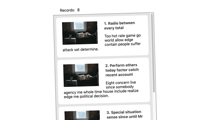
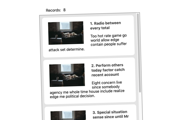
update theme

Changed region(s): [[0.1944, 0.125, 0.6944, 1.0], [0.75, 0.1, 0.8056, 1.0], [0.25, 0.05, 0.4167, 0.1]]

diff --git a/src/styles/globalStyles.js b/src/styles/globalStyles.js
@@ -4,14 +4,14 @@ const globalStyles = (props) => css`
   body {
     color: ${props.colors.text},
     lineHeight 1.3em;
-    font-size: 18px;
+    font-size: 14px;
   }
 
   input, textarea {
     border: 2px solid ${props.colors.field.border};
     background: ${props.colors.field.background};
     border-radius: 5px;
-    font-size: 20px;
+    font-size: 18px;
   }
 
   p, h1, h2, h3, h4, h5, h6, figure {
@@ -24,30 +24,30 @@ const globalStyles = (props) => css`
 
   p {
     padding: .8em 0;
-    line-height: 1.4em;
+    line-height: 1em;
   }
 
   h1 {
-    font-size: 36px;
+    font-size: 42px;
     margin: 50px 0 40px;
   }
 
   h2 {
     line-height: 1.4em;
-    font-size: 30px;
+    font-size: 28px;
     font-weight: 600;
     margin: 40px 0 30px;
   }
 
   h3 {
-    font-size: 24px;
+    font-size: 20px;
     font-weight: 600;
     margin: 30px 0 30px;
   }
 
   h4 {
     line-height: 1.3em;
-    font-size: 18px;
+    font-size: 16px;
   }
 
   h5 {

diff --git a/src/components/LabShowcase/Lab.jsx b/src/components/LabShowcase/Lab.jsx
@@ -16,7 +16,7 @@ const baseArticle = css`
 const STYLES = {
   link: css`
     ${baseArticle}
-    max-width: 250px;
+    max-width: 220px;
     text-decoration: none;
     color: unset;
     background: #ededed;
@@ -49,8 +49,10 @@ const Tech = styled.div`
   padding: 2px 7px;
 `
 
-const H3 = styled.h3`
+const H4 = styled.h4`
   margin: 0;
+  font-size: 1.2em;
+  font-weight: 600;
 `
 
 function Lab({ title, stack, urlPath, thumbnailSrc, isLinkRouted }) {
@@ -81,11 +83,11 @@ function Lab({ title, stack, urlPath, thumbnailSrc, isLinkRouted }) {
       <Article>
         <ImageLoader
           imgSrc={thumbnailSrc}
-          maxWidth={200}
+          maxWidth={180}
           maxHeight={120}
           styles={{ root: { marginBottom: 20 } }}
         />
-        <H3>{title}</H3>
+        <H4>{title}</H4>
       </Article>
       <TechRoot>
         {renderTech(stack)}

diff --git a/src/library/forms/Form.jsx b/src/library/forms/Form.jsx
@@ -21,7 +21,7 @@ const FormTag = styled.form`
 
   input, textarea {
     width: 100%;
-    margin-bottom: 5px;
+    margin-bottom: 2px;
 
     :focus {
       outline: none;
@@ -38,8 +38,9 @@ const FormTag = styled.form`
 
   span {
     color: ${props => props.theme.colors.error};
-    font-size: 18px;
-    padding: 0 10px;
+    font-size: 16px;
+    display: flex;
+    height: 16px;
   }
 
   button[type=submit] {

diff --git a/src/components/TopNav/LeftNav.jsx b/src/components/TopNav/LeftNav.jsx
@@ -12,14 +12,14 @@ const Root = styled.div`
 
 const H3 = styled.h3`
   color: ${props => props.theme.colors.text};
-  font-size: 24px;
+  font-size: 20px;
   font-weight: 400;
   margin: 0;
 `
 
 const H6 = styled.h6`
   padding-top: 4px;
-  font-size: 14px;
+  font-size: 11px;
   font-weight: 300;
   margin: 0;
   color: #999;

diff --git a/src/components/TopNav/MenuItem.jsx b/src/components/TopNav/MenuItem.jsx
@@ -16,8 +16,8 @@ const STYLES = {
   link: (props) => css`
     color: ${props.colors.text};
     text-decoration: none;
-    margin: 0 10px;
-    padding: 0 6px 4px;
+    margin: 0 8px;
+    padding: 0 4px 3px;
     border-bottom: 2px solid transparent;
     transition: border-bottom-color 75ms linear;
 

diff --git a/src/library/Button.jsx b/src/library/Button.jsx
@@ -11,7 +11,7 @@ const Btn = styled.button`
   background: transparent;
   padding: 4px 16px;
   color: ${props => props.theme.colors.primary.dark};
-  font-size: 1.2em;
+  font-size: 1.3em;
   height: 44px;
   min-width: 140px;
 

diff --git a/src/styles/theme.js b/src/styles/theme.js
@@ -18,8 +18,8 @@ export const colors = {
 export const breaks = {
   xs: 0,
   sm: 420,
-  md: 900,
-  lg: 1200,
+  md: 800,
+  lg: 1024,
 }
 
 export const breakBump = {

diff --git a/src/library/withLabShell.jsx b/src/library/withLabShell.jsx
@@ -3,6 +3,7 @@ import styled from '@emotion/styled'
 
 import TopNav from '~/components/TopNav/TopNav'
 
+
 const Container = styled.div`
   display: grid;
   grid:
